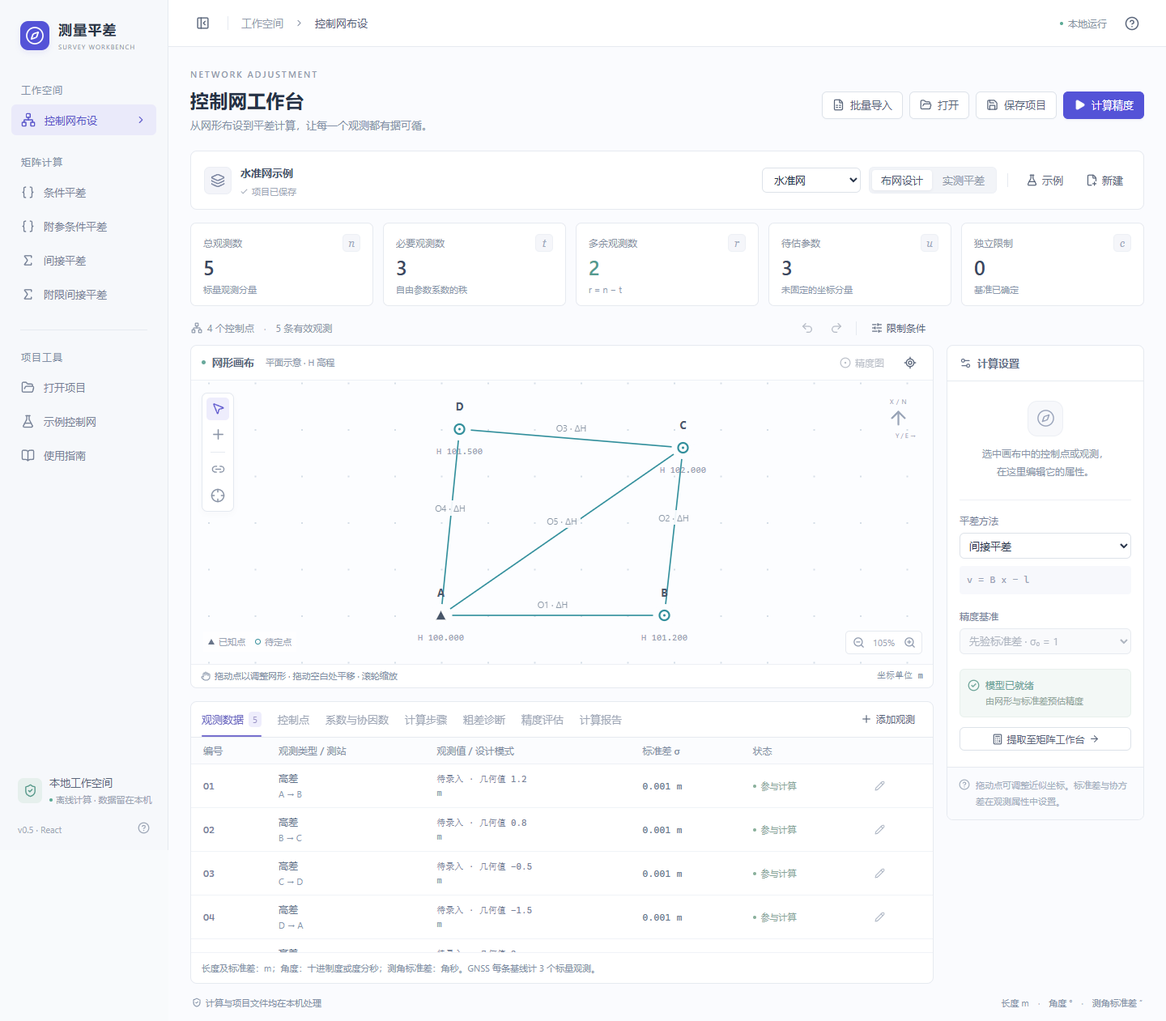
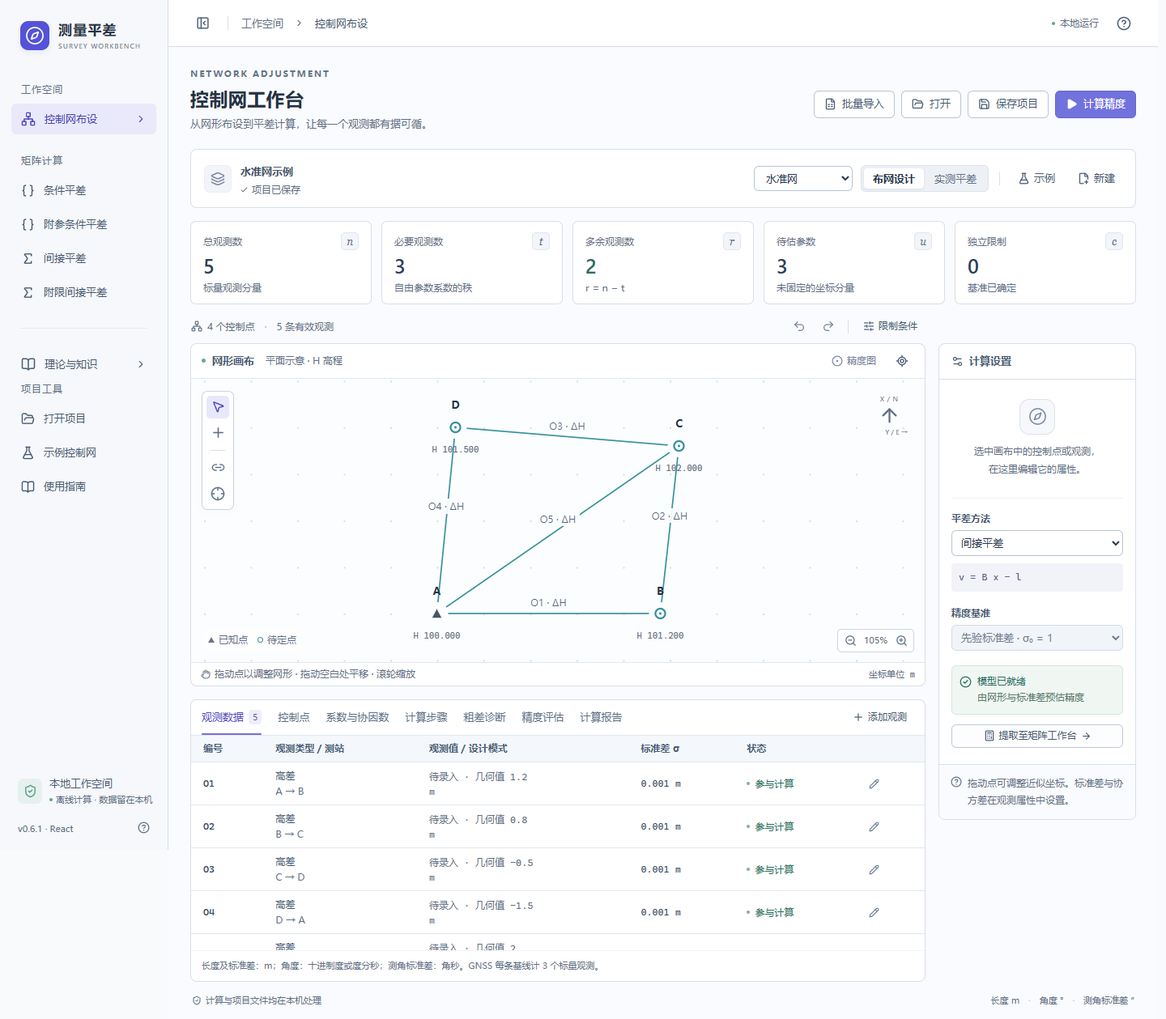
Polish desktop typography, control outlines and light scrollbars

diff --git a/survey-adjustment-calculator/frontend/src/App.tsx b/survey-adjustment-calculator/frontend/src/App.tsx
@@ -177,7 +177,7 @@ export default function App() {
   const selectedPoint = selection?.type === 'point' ? project.points[selection.id] : null
   const selectedObs = selection?.type === 'observation' ? project.observations.find(o => o.id === selection.id) : null
   return <div className={'app-shell '+(collapsed ? 'sidebar-collapsed' : '')}>
-    <aside className="sidebar"><button className="brand" onClick={() => switchMode('network')} title="测量平差工作台"><span className="brand-icon"><Compass size={24} strokeWidth={1.7} /></span><span className="brand-word"><strong>测量平差</strong><small>SURVEY WORKBENCH</small></span></button><div className="sidebar-content"><div className="nav-label">工作空间</div><button className={'nav-item '+(!theoryOpen && mode === 'network' ? 'active' : '')} onClick={() => switchMode('network')} title="控制网布设"><NetworkIcon size={18} /><span>控制网布设</span><ChevronRight size={14} className="nav-arrow" /></button><div className="nav-label matrix-label">矩阵计算</div>{Object.entries(shortNames).map(([key, name]) => <button key={key} className={'nav-item '+(!theoryOpen && mode === 'matrix' && model === key ? 'active' : '')} onClick={() => { setModel(key); switchMode('matrix') }} title={bootstrap.methods[key]}>{key.startsWith('condition') ? <Braces size={17} /> : <Sigma size={17} />}<span>{name}</span></button>)}<div className="nav-divider" /><button className={'nav-item '+(theoryOpen ? 'active' : '')} onClick={() => openTheory()} title="理论与知识"><BookOpen size={18} /><span>理论与知识</span><ChevronRight size={14} className="nav-arrow" /></button><div className="nav-label">项目工具</div><button className="nav-item" onClick={() => fileInput.current?.click()} title="打开项目"><FolderOpen size={17} /><span>打开项目</span></button><button className="nav-item" onClick={() => { switchMode('network'); requestReplace(() => void loadExample(project.family), '示例将替换当前控制网。') }} title="载入示例"><FlaskConical size={17} /><span>示例控制网</span></button><button className="nav-item" onClick={() => setHelp(true)} title="使用指南"><BookOpen size={17} /><span>使用指南</span></button></div><div className="sidebar-footer"><button className="local-status" onClick={() => setAbout(true)} title="关于此程序"><span className="local-icon"><ShieldCheck size={17} /></span><span><strong>本地工作空间</strong><small><i />离线计算 · 数据留在本机</small></span></button><div className="sidebar-version"><span>v0.6 · React</span><button aria-label="关于此程序" onClick={() => setAbout(true)}><CircleHelp size={15} /></button></div></div></aside>
+    <aside className="sidebar"><button className="brand" onClick={() => switchMode('network')} title="测量平差工作台"><span className="brand-icon"><Compass size={24} strokeWidth={1.7} /></span><span className="brand-word"><strong>测量平差</strong><small>SURVEY WORKBENCH</small></span></button><div className="sidebar-content"><div className="nav-label">工作空间</div><button className={'nav-item '+(!theoryOpen && mode === 'network' ? 'active' : '')} onClick={() => switchMode('network')} title="控制网布设"><NetworkIcon size={18} /><span>控制网布设</span><ChevronRight size={14} className="nav-arrow" /></button><div className="nav-label matrix-label">矩阵计算</div>{Object.entries(shortNames).map(([key, name]) => <button key={key} className={'nav-item '+(!theoryOpen && mode === 'matrix' && model === key ? 'active' : '')} onClick={() => { setModel(key); switchMode('matrix') }} title={bootstrap.methods[key]}>{key.startsWith('condition') ? <Braces size={17} /> : <Sigma size={17} />}<span>{name}</span></button>)}<div className="nav-divider" /><button className={'nav-item '+(theoryOpen ? 'active' : '')} onClick={() => openTheory()} title="理论与知识"><BookOpen size={18} /><span>理论与知识</span><ChevronRight size={14} className="nav-arrow" /></button><div className="nav-label">项目工具</div><button className="nav-item" onClick={() => fileInput.current?.click()} title="打开项目"><FolderOpen size={17} /><span>打开项目</span></button><button className="nav-item" onClick={() => { switchMode('network'); requestReplace(() => void loadExample(project.family), '示例将替换当前控制网。') }} title="载入示例"><FlaskConical size={17} /><span>示例控制网</span></button><button className="nav-item" onClick={() => setHelp(true)} title="使用指南"><BookOpen size={17} /><span>使用指南</span></button></div><div className="sidebar-footer"><button className="local-status" onClick={() => setAbout(true)} title="关于此程序"><span className="local-icon"><ShieldCheck size={17} /></span><span><strong>本地工作空间</strong><small><i />离线计算 · 数据留在本机</small></span></button><div className="sidebar-version"><span>v0.6.1 · React</span><button aria-label="关于此程序" onClick={() => setAbout(true)}><CircleHelp size={15} /></button></div></div></aside>
     <main className="main"><header className="topbar"><div className="breadcrumb"><Button size="icon" variant="ghost" aria-label="切换侧栏" onClick={() => setCollapsed(!collapsed)}>{collapsed ? <PanelLeftOpen size={17} /> : <PanelLeftClose size={17} />}</Button><span className="vertical-separator" /><span>工作空间</span><ChevronRight size={13} /><strong>{theoryOpen ? '理论与知识' : mode === 'network' ? '控制网布设' : shortNames[model]}</strong></div><div className="topbar-right"><span className="offline-pill"><i />本地运行</span><Button size="icon" variant="ghost" aria-label="打开使用指南" onClick={() => setHelp(true)}><CircleHelp size={18} /></Button></div></header>
       <div className="page-content"><div className="page-heading"><div><div className="eyebrow">{theoryOpen ? 'ADJUSTMENT KNOWLEDGE' : mode === 'network' ? 'NETWORK ADJUSTMENT' : 'MATRIX ADJUSTMENT'}</div><h1>{theoryOpen ? '理论与知识' : mode === 'network' ? '控制网工作台' : bootstrap.methods[model]}</h1><p>{theoryOpen ? '从误差基础到成果检验，把公式与实际计算联系起来。' : mode === 'network' ? '从网形布设到平差计算，让每一个观测都有据可循。' : bootstrap.formulas[model]+'  ·  最小二乘平差与精度评定'}</p></div><div className="heading-actions">{theoryOpen ? <Button onClick={() => setTheoryOpen(false)}><ArrowRight size={15} />返回计算工作台</Button> : <>{mode === 'network' && <Button onClick={() => setBulkImport(true)}><FileSpreadsheet size={15} />批量导入</Button>}<Button onClick={() => fileInput.current?.click()}><FolderOpen size={15} />打开</Button><Button onClick={() => void save()}><Save size={15} />保存项目</Button><Button variant="default" onClick={() => void calculate()} disabled={busy || (mode === 'network' && analyzing)}>{busy ? <LoaderCircle size={15} className="spin" /> : <Play size={15} fill="currentColor" strokeWidth={1.5} />}{busy ? '计算中…' : mode === 'network' && design ? '计算精度' : '计算平差'}</Button></>}</div></div>
       <div hidden={theoryOpen}>{mode === 'network' ? <><section className="project-bar panel"><div className="project-identity"><span className="project-icon"><Layers3 size={18} /></span><div><input aria-label="控制网名称" value={project.name} onChange={e => commit({ ...project, name: e.target.value })} /><small>{dirty ? <><i className="unsaved-dot" />未保存更改</> : <><Check size={11} />项目已保存</>}</small></div></div><div className="project-options"><select aria-label="控制网类型" value={project.family} onChange={e => { const family = e.target.value; requestReplace(() => void loadExample(family), '切换网型会载入对应示例。') }}>{bootstrap.families.map(f => <option key={f}>{f}</option>)}</select><div className="segmented" aria-label="计算模式"><button className={design ? 'active' : ''} onClick={() => { if (!design) { invalidate(); setDesign(true) } }}>布网设计</button><button className={!design ? 'active' : ''} onClick={() => { if (design) { invalidate(); setDesign(false); setPrecision('posterior') } }}>实测平差</button></div><span className="vertical-separator" /><Button size="sm" variant="ghost" onClick={() => requestReplace(() => void loadExample(project.family), '示例将替换当前控制网。')}><FlaskConical size={15} />示例</Button><Button size="sm" variant="ghost" onClick={() => requestReplace(() => commit({ format: 'survey-network-project', version: 1, family: project.family, name: '未命名'+project.family, method: 'indirect', points: {}, observations: [], constraints: [] }, true), '将创建空白控制网。')}><FilePlus2 size={15} />新建</Button></div></section>
@@ -197,6 +197,6 @@ export default function App() {
     {constraints && <ConstraintEditor project={project} onClose={() => setConstraints(false)} onSave={p => { commit(p); setConstraints(false); notify('限制条件已更新。') }} />}
     <Modal open={Boolean(confirm)} title={confirm?.title || '确认操作'} description={confirm?.text} onClose={() => setConfirm(null)}><div className="modal-footer"><Button onClick={() => setConfirm(null)}>取消</Button><Button variant="default" onClick={() => { const action = confirm?.action; setConfirm(null); action?.() }}>继续</Button></div></Modal>
     <Modal open={help} title="使用指南" description="布网、录入观测、计算和导出，都可以在这个本地工作空间中完成。" onClose={() => setHelp(false)} wide><div className="help-content"><ol><li><strong>选择网型与计算模式</strong><p>布网设计根据近似坐标和观测标准差预估精度，不产生实测残差。实测平差须录入所有启用观测的实测值；可在实测模式中载入对应示例。</p></li><li><strong>布点与添加观测</strong><p>画布左侧 ＋ 添加控制点，连线工具按顺序选择端点。水平角按“后视点 → 测站 → 前视点”。右侧设置坐标、固定分量和标准差；表格编辑按钮可录入观测值。</p></li><li><strong>检查基准和实时统计</strong><p>n 按标量分量计数；t 为考虑精确限制后观测系数的秩；r = n − t。未知参数 u 不含固定分量，独立限制数 c 按秩计。基准亏损 u − c − t 应为 0。</p></li><li><strong>计算并查看精度</strong><p>四种方法共享观测、权和精确限制。计算后查看点位中误差、相对精度、误差椭圆、法方程和协因数。椭圆为 1σ 半轴，画布放大显示；GNSS 椭圆仅为 XY 投影。</p></li><li><strong>保存与导出</strong><p>项目保存为 .net.json 或 .sap.json，可兼容旧版项目。报告页导出 TXT、CSV 和完整 JSON。Ctrl+S 保存；Ctrl+Z 撤销；Ctrl+Shift+Z 重做；Delete 删除选中对象。</p></li></ol><div className="help-note"><strong>坐标与单位</strong><p>平面 X 北、Y 东。GNSS 使用同一 XYZ 直角坐标框架中的 ΔX、ΔY、ΔZ，支持标准差或 3×3 协方差阵；不自动做 ENU、投影或地心坐标转换。各观测块之间按不相关处理。角度输入为度，标准差为角秒，角度方程内部为弧度。</p></div></div></Modal>
-    <Modal open={about} title="关于测量平差工作台" description="v0.6 · 本地桌面版" onClose={() => setAbout(false)}><div className="about-content"><div className="about-brand"><Compass size={40} /><div><strong>测量平差</strong><span>Survey Adjustment Workbench</span></div></div><p>React + TypeScript 界面，Radix 交互组件与 Lucide 图标；由本机 Python / NumPy 内核完成平差与精度计算。</p><p>界面布局与按钮组件参考 shadcn-admin / shadcn/ui，按 MIT 协议保留许可说明。完整来源见程序目录 THIRD_PARTY_NOTICES.md。</p><p className="muted">计算不依赖云端，不加载在线字体或外部服务。</p></div></Modal>
+    <Modal open={about} title="关于测量平差工作台" description="v0.6.1 · 本地桌面版" onClose={() => setAbout(false)}><div className="about-content"><div className="about-brand"><Compass size={40} /><div><strong>测量平差</strong><span>Survey Adjustment Workbench</span></div></div><p>React + TypeScript 界面，Radix 交互组件与 Lucide 图标；由本机 Python / NumPy 内核完成平差与精度计算。</p><p>界面布局与按钮组件参考 shadcn-admin / shadcn/ui，按 MIT 协议保留许可说明。完整来源见程序目录 THIRD_PARTY_NOTICES.md。</p><p className="muted">计算不依赖云端，不加载在线字体或外部服务。</p></div></Modal>
   </div>
 }

diff --git a/survey-adjustment-calculator/frontend/src/appearance.css b/survey-adjustment-calculator/frontend/src/appearance.css
@@ -1,0 +1,232 @@
+/* Desktop appearance: readable text, distinct controls, quiet scrollbars. */
+:root {
+  color-scheme: light;
+  font-family: "Microsoft YaHei UI", "Microsoft YaHei", "Segoe UI", system-ui, sans-serif;
+  text-rendering: auto;
+  -webkit-font-smoothing: auto;
+  --ink: #26354b;
+  --text-secondary: #475972;
+  --muted: #5f6f86;
+  --border: #d7dfe9;
+  --control-border: #b8c4d5;
+  --divider: #e1e7ef;
+  --success-text: #286f60;
+  --warning-text: #886021;
+  --purple-text: #66528f;
+  --scroll-thumb: #b2bdcd;
+  --scroll-thumb-hover: #8c9bb1;
+  scrollbar-gutter: stable;
+}
+
+/* Windows' CJK UI fonts come first, including text rendered inside the SVG. */
+button, input, textarea, select { font-family: inherit; }
+.mono, .point-value, .property-fields input {
+  font-family: "Cascadia Mono", Consolas, "Microsoft YaHei UI", monospace;
+}
+.point-label, .edge-label {
+  font-family: "Microsoft YaHei UI", "Microsoft YaHei", "Segoe UI", sans-serif;
+}
+.point-label { fill: var(--ink); font-weight: 700; }
+.point-value { fill: var(--muted); letter-spacing: 0; }
+.edge-label { fill: #54677d; font-size: 12px; font-weight: 500; }
+.edge-label.selected { fill: #4e46bb; }
+.flagged-edge .edge-label { fill: #a13f55; }
+.canvas-placeholder { fill: var(--muted); }
+
+/* Text hierarchy is shared by the network, matrix and theory workspaces. */
+.muted, .page-heading p, .nav-label, .brand small, .breadcrumb,
+.offline-pill, .sidebar-version, .sidebar-version button,
+.local-status small, .project-identity small,
+.stat-card>div, .stat-card small, .stat-card i,
+.canvas-actions, .canvas-heading .muted, .canvas-status,
+.canvas-compass, .canvas-legend, .canvas-zoom>span,
+.inspector-intro p, .field small, .inspector-tip,
+.property-title small, .property-list dt,
+.table-footnote, .page-footer, .modal-description, .modal-close,
+.result-summary small, .section-caption, .result-checks,
+.help-content, .about-content, .about-brand span, .startup p {
+  color: var(--muted);
+}
+.nav-item, .local-status, .breadcrumb strong, .field>span:first-child,
+.property-section-label, .checkbox-row label, .check-label,
+.property-list dd, .table-actions, .section-heading strong,
+.canvas-heading strong, .property-title strong,
+.help-content strong, .about-brand strong, .result-summary strong,
+.result-checks b, .matrix-fields textarea, .toast>span {
+  color: var(--text-secondary);
+}
+.nav-item { font-weight: 500; }
+.nav-item.active { color: #4942b8; background: #e9e9fb; }
+.nav-item:hover:not(.active) { background: #eaf0f7; color: var(--ink); }
+.eyebrow { color: #65748b; }
+.stat-card strong { color: #2e415b; }
+.stat-card:nth-child(3) strong { color: var(--success-text); }
+.stat-card i { background: #f2f5fa; border-color: var(--divider); }
+.project-identity small, .stat-card small, .canvas-heading .muted,
+.canvas-legend, .canvas-status, .inspector-tip, .model-status small {
+  font-size: 12px;
+}
+.field>span:first-child, .section-heading strong, .canvas-heading strong,
+.data-table th, .matrix-table th, .segmented button.active {
+  font-weight: 600;
+}
+
+/* Buttons and editable fields have a firmer outline than passive panels. */
+input, select, textarea { border-color: var(--control-border); }
+input:hover:not(:disabled), select:hover:not(:disabled), textarea:hover:not(:disabled) {
+  border-color: #94a4bb;
+}
+input:focus, select:focus, textarea:focus {
+  border-color: #6862d0;
+  box-shadow: 0 0 0 3px #5453d718;
+}
+input:disabled, select:disabled, textarea:disabled {
+  color: #6c7b91;
+  background: #f1f4f8;
+  border-color: #d2dbe7;
+  opacity: 1;
+}
+.button { color: var(--text-secondary); }
+.button-outline { border-color: var(--control-border); box-shadow: none; }
+.button-outline:hover:not(:disabled) {
+  color: var(--ink);
+  background: #f2f5fa;
+  border-color: #92a2b9;
+}
+.button-primary { color: #fff; border-color: #4847c4; }
+.button-danger { color: #fff; }
+.button-ghost:hover:not(:disabled) { background: #edf1f7; color: var(--ink); }
+.button:disabled {
+  opacity: 1;
+  color: #78869b;
+  background: #f2f4f8;
+  border-color: #d7dfe9;
+  box-shadow: none;
+}
+.button-ghost:disabled { background: transparent; border-color: transparent; }
+.button.is-on, .canvas-tools .button-icon.active {
+  color: #4e46bb;
+  background: #e9e7fa;
+}
+.canvas-tools .button-icon, .canvas-zoom .button-icon { color: #5d6f87; }
+.canvas-tools { border-color: #cbd5e3; box-shadow: 0 2px 8px #26354b08; }
+.canvas-zoom { border-color: #cbd5e3; }
+.segmented { background: #edf1f6; border-color: #dce3ed; }
+.segmented button { color: var(--muted); }
+.segmented button.active { color: var(--ink); box-shadow: 0 1px 3px #26354b1a; }
+.panel, .canvas-panel, .stat-card { border-color: var(--border); }
+.canvas-heading, .canvas-status, .inspector-divider, .data-tabs,
+.data-table td, .data-table th { border-color: var(--divider); }
+.intro-icon { color: #71839c; border-color: #dbe2ed; }
+.inspector-formula { color: #5b6486; background: #f1f3f9; }
+.formula-card, .formula-card .mono, .step-formula { color: #625187; }
+.model-status, .model-status strong { color: var(--success-text); }
+.model-status small { color: #547768; }
+.model-status { border-color: #d5e6de; background: #f0f7f3; }
+.model-status.has-defect, .model-status.has-defect small { color: var(--warning-text); }
+.example-note { color: #496f5d; }
+.warning-note { color: var(--warning-text); }
+
+/* Tables keep row labels and numeric results equally legible. */
+.data-tabs>button:not(.button) { color: var(--muted); }
+.data-tabs>button.active:not(.button) { color: #4e46bb; }
+.data-table th, .matrix-table th {
+  color: #4a5e78;
+  background: #f4f7fb;
+}
+.data-table td, .matrix-table td { color: var(--text-secondary); }
+.data-table small { color: var(--muted); font-size: 12px; }
+.data-table td.mono, .matrix-table td { color: #344b68; }
+.data-table .strong { color: #344b68; font-weight: 600; }
+.data-table .button-icon { color: #60738c; }
+.data-table td .muted, .status-label, .disabled-label { font-size: 12px; }
+.status-label { color: var(--success-text); }
+.disabled-label { color: #68778c; }
+.count, .data-tabs .active .count, .matrix-dimension { color: #665b94; }
+.report-text { color: var(--text-secondary); }
+.empty, .empty p { color: var(--muted); }
+.empty strong { color: var(--text-secondary); }
+.data-table tbody tr:hover:not(.selected-row) { background: #f6f8fc; }
+.data-table tr.selected-row { background: #eeeffc; }
+.matrix-entity { color: #62508c; }
+.tag { font-weight: 500; }
+.tag-green, .import-result { color: var(--success-text); }
+.tag-purple { color: #66528f; }
+.import-error, .diagnostic-flag-count { color: #a13f55 !important; }
+.import-dropzone, .import-dropzone strong, .import-more,
+.import-table-tabs>button:not(.button), .import-table-tabs>button>span,
+.step-description, .step-metrics small, .step-footer,
+.diagnostic-intro p, .diagnostic-notes, .diagnostic-none,
+.recalculation-comparison>p { color: var(--muted); }
+.steps-navigation button, .step-heading strong, .step-metrics strong,
+.diagnostic-intro strong, .recalculation-comparison>strong {
+  color: var(--text-secondary);
+}
+.steps-navigation button, .import-table-tabs>button:not(.button) {
+  border-color: #cbd5e3;
+}
+.steps-navigation button.active, .import-table-tabs>button.active {
+  color: #4e46bb;
+  border-color: #bbb6e6;
+}
+.step-heading small { color: var(--muted); }
+.global-test strong, .global-test dd { color: var(--success-text); }
+.global-test small, .global-test p, .global-test dt { color: #567564; }
+.global-warning strong, .global-warning dd { color: var(--warning-text); }
+.global-warning small, .global-warning p, .global-warning dt { color: #806b45; }
+
+/* The theory reader uses the same contrast levels as the calculation pages. */
+.theory-search { border-color: var(--control-border); color: var(--muted); }
+.theory-search input::placeholder { color: var(--muted); opacity: 1; }
+.theory-toc-heading, .theory-chapter h3>span, .theory-chapter>button small,
+.search-count, .theory-search-empty, .theory-context>small, .theory-context p,
+.theory-context dt, .theory-breadcrumb, .theory-article-header>p,
+.theory-tags span, .theory-section-heading small, .lab-metrics span,
+.lab-metrics strong small, .lab-legend, .lab-notes, .lab-scope,
+.theory-quiz>small, .theory-quiz button>span, .theory-related>h3,
+.theory-sources>h3, .theory-sources>p, .theory-sources a,
+.theory-sources a small, .theory-pagination>span {
+  color: var(--muted);
+}
+.theory-chapter>button, .theory-section>p, .theory-table td,
+.lab-metrics strong, .propagation-terms>div, .propagation-terms b,
+.theory-quiz button { color: var(--text-secondary); }
+.theory-section>p { font-size: 14px; }
+.theory-chapter>button small, .theory-tags span, .theory-sources>p,
+.theory-sources a small, .lab-metrics span, .lab-legend, .lab-scope {
+  font-size: 11px;
+}
+.theory-chapter>button.active { color: #4942b8; }
+.theory-chapter>button.active small { color: #665b94; }
+.theory-table th { color: #4a5e78; font-weight: 600; }
+.theory-example>small, .theory-example>p { color: #3e6e61; }
+.theory-callout, .theory-quiz>p, .theory-glossary dd { color: #685780; }
+.theory-formula { color: #334464; border-color: #dce3ed; }
+.theory-quiz button { border-color: #cbd5e3; }
+.lab-plot text { fill: var(--muted); }
+.precision-note { color: #796093; }
+
+/*
+ * The viewport and nested panels share a light scrollbar. Use standards where
+ * available, with a WebView2-specific fallback for rounded thumbs and no arrows.
+ */
+* { scrollbar-width: thin; scrollbar-color: var(--scroll-thumb) #f5f7fb; }
+@supports selector(::-webkit-scrollbar) {
+  *, .sidebar-content, .theory-toc, .modal, .data-scroll, .data-tabs, .report-text { scrollbar-width: auto; scrollbar-color: auto; }
+  ::-webkit-scrollbar { width: 10px; height: 10px; }
+  ::-webkit-scrollbar-track { background: #f5f7fb; }
+  ::-webkit-scrollbar-thumb {
+    background: var(--scroll-thumb);
+    border: 2px solid #f5f7fb;
+    border-radius: 8px;
+    min-height: 36px;
+  }
+  ::-webkit-scrollbar-thumb:hover { background: var(--scroll-thumb-hover); }
+  ::-webkit-scrollbar-button { display: none; width: 0; height: 0; }
+  ::-webkit-scrollbar-corner { background: #f5f7fb; }
+}
+@media (forced-colors: active) {
+  *, .sidebar-content, .theory-toc, .modal { scrollbar-color: auto; scrollbar-width: auto; }
+  ::-webkit-scrollbar-track, ::-webkit-scrollbar-corner { background: Canvas; }
+  ::-webkit-scrollbar-thumb { background: ButtonText; border-color: Canvas; }
+}

diff --git a/survey-adjustment-calculator/frontend/src/main.tsx b/survey-adjustment-calculator/frontend/src/main.tsx
@@ -2,5 +2,6 @@ import React from 'react'
 import ReactDOM from 'react-dom/client'
 import App from './App'
 import './styles.css'
+import './appearance.css'
 
 ReactDOM.createRoot(document.getElementById('root')!).render(<React.StrictMode><App /></React.StrictMode>)

diff --git a/survey-adjustment-calculator/desktop.py b/survey-adjustment-calculator/desktop.py
@@ -327,7 +327,7 @@ def main():
         else:
             import webview
             webview.settings['ALLOW_DOWNLOADS'] = False
-            api._window = webview.create_window('测量平差工作台 v0.6 · React', url, js_api=api,
+            api._window = webview.create_window('测量平差工作台 v0.6.1 · React', url, js_api=api,
                                                width=1440, height=960, min_size=(1060, 740),
                                                background_color='#f8fafc')
             if args.ui_self_test:

diff --git a/survey-adjustment-calculator/README.md b/survey-adjustment-calculator/README.md
@@ -1,6 +1,6 @@
-# 测量平差工作台 v0.6 · React 桌面版
+# 测量平差工作台 v0.6.1 · React 桌面版
 
-从 [GitHub Releases](https://github.com/HHR-ops/Maths/releases/tag/survey-adjustment-v0.6.0) 下载 Windows x64 压缩包，解压后双击 `测量平差工作台-v0.6-React.exe`。本地构建产物位于 `dist`，运行无需安装 Python 或 Node.js。
+从 [GitHub Releases](https://github.com/HHR-ops/Maths/releases/tag/survey-adjustment-v0.6.1) 下载 Windows x64 压缩包，解压后双击 `测量平差工作台-v0.6.1-React.exe`。本地构建产物位于 `dist`，运行无需安装 Python 或 Node.js。
 此版本使用 React + TypeScript + Vite 重做界面，使用本机 WebView2 显示窗口，沿用 Python / NumPy 平差内核。
 运行环境为 64 位 Windows 10 / 11、.NET Framework 4.6.2 或更高版本，以及 [Microsoft Edge WebView2 Runtime](https://developer.microsoft.com/microsoft-edge/webview2/)。环境齐全后可以离线使用。
 旧 Tk 界面源码保留供对照。Git 仓库存放源码与说明，EXE 和便携压缩包通过 Releases 分发。
@@ -8,6 +8,10 @@
 ![控制网工作台](docs/screenshots/workbench.png)
 
 跨电脑使用与项目迁移见 [便携版使用说明](docs/PORTABLE.md)。
+
+## v0.6.1 外观细节
+
+加深辅助文字与数据标注，优先使用 Windows 中文界面字体，统一按钮和输入框轮廓，并改用浅色圆角滚动条。已检查 150% 桌面缩放和不同窗口宽度。
 
 ## v0.6 新增
 

diff --git a/survey-adjustment-calculator/docs/PORTABLE.md b/survey-adjustment-calculator/docs/PORTABLE.md
@@ -1,7 +1,7 @@
 # Windows 便携版使用与迁移
 
-1. 从 [测量平差工作台 v0.6.0 发布页](https://github.com/HHR-ops/Maths/releases/tag/survey-adjustment-v0.6.0) 下载 `SurveyAdjustment-v0.6.0-Windows-x64.zip`。
-2. 解压到本机文件夹，双击 `测量平差工作台-v0.6-React.exe`。
+1. 从 [测量平差工作台 v0.6.1 发布页](https://github.com/HHR-ops/Maths/releases/tag/survey-adjustment-v0.6.1) 下载 `SurveyAdjustment-v0.6.1-Windows-x64.zip`。
+2. 解压到本机文件夹，双击 `测量平差工作台-v0.6.1-React.exe`。
 3. 无需安装 Python、Node.js 或项目依赖。计算在本机完成，不需要联网。
 
 目标电脑需要 64 位 Windows 10 / 11、.NET Framework 4.6.2 或更高版本、Microsoft Edge WebView2 Runtime。WebView2 缺失时，可从 [微软官方下载页](https://developer.microsoft.com/microsoft-edge/webview2/) 安装；需要全离线部署时选择 x64 Evergreen Standalone Installer，并预先带到目标电脑上安装。
@@ -19,7 +19,7 @@
 发布页附带 `SHA256SUMS.txt`。可在 PowerShell 中计算压缩包校验值，与该文件中的同名条目比对：
 
 ```powershell
-Get-FileHash -Algorithm SHA256 -LiteralPath .\SurveyAdjustment-v0.6.0-Windows-x64.zip
+Get-FileHash -Algorithm SHA256 -LiteralPath .\SurveyAdjustment-v0.6.1-Windows-x64.zip
 ```
 
 ## 当前验证范围

diff --git a/README.md b/README.md
@@ -4,8 +4,8 @@
 
 ## 测量平差工作台
 
-[项目源码与使用说明](survey-adjustment-calculator/README.md) · [Windows 便携版下载](https://github.com/HHR-ops/Maths/releases/tag/survey-adjustment-v0.6.0)
+[项目源码与使用说明](survey-adjustment-calculator/README.md) · [Windows 便携版下载](https://github.com/HHR-ops/Maths/releases/tag/survey-adjustment-v0.6.1)
 
-基于 React + TypeScript 的本地桌面工作台，支持七类控制网布设、四种平差方法、自动矩阵建模和精度评估。支持 Excel / CSV 批量导入、分步计算、四法对照与统计诊断。v0.6 新增六章十三篇离线理论、交互例题、自测与成果说明入口。
+基于 React + TypeScript 的本地桌面工作台，支持七类控制网布设、四种平差方法、自动矩阵建模和精度评估。支持 Excel / CSV 批量导入、分步计算、四法对照与统计诊断。v0.6 提供六章十三篇离线理论、交互例题、自测与成果说明入口；v0.6.1 优化文字对比度、按钮轮廓与浅色滚动条。
 
 ![控制网工作台](survey-adjustment-calculator/docs/screenshots/workbench.png)

diff --git a/survey-adjustment-calculator/CHANGELOG.md b/survey-adjustment-calculator/CHANGELOG.md
@@ -1,5 +1,12 @@
 # 更新记录
 
+## v0.6.1 — 2026-10-21
+
+- 优先使用 Windows 中文界面字体，加深正文、表头、数值、辅助标签与网形标注，统一文字层次。
+- 细化按钮和输入框轮廓、面板与表格分隔线，改善悬停、选中、焦点和禁用状态。
+- 统一为浅色圆角滚动条，移除上下箭头，支持滚轮与拖动；深色系统偏好下仍匹配浅色界面。
+- 在 150% 缩放的真实 WebView2 窗口及三种宽度下检查；原有 14 组浏览器流程通过。
+
 ## v0.6.0 — 2026-10-21
 
 - 增加离线理论与知识模块：六章十三篇，覆盖误差来源与统计规律、传播定律、最小二乘、统计与模型检验、成果质量与误差椭圆。
